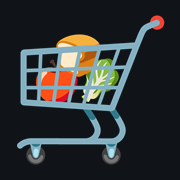
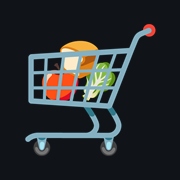
Add files via upload

Changed region(s): [[0.0833, 0.0833, 0.9167, 0.9167]]

diff --git a/sw.js b/sw.js
@@ -1,4 +1,4 @@
-const CACHE = 'nespaPT-v11';
+const CACHE = 'nespaPT-v12';
 const ASSETS = ['./', './index.html', './manifest.webmanifest', './icon.png', './icon-192.png', './icon-180.png'];
 
 self.addEventListener('install', (e) => {
